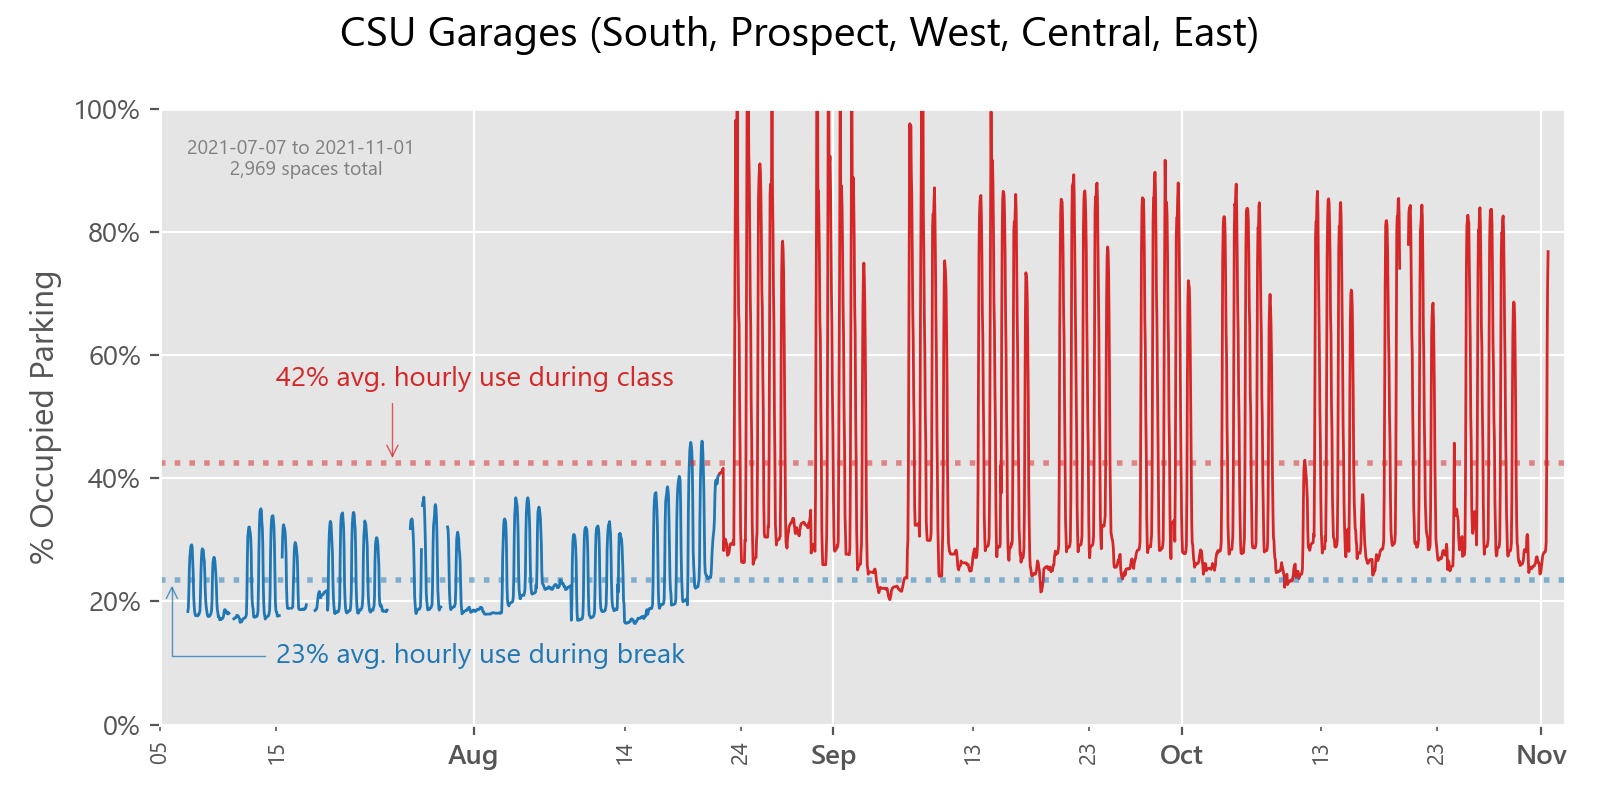
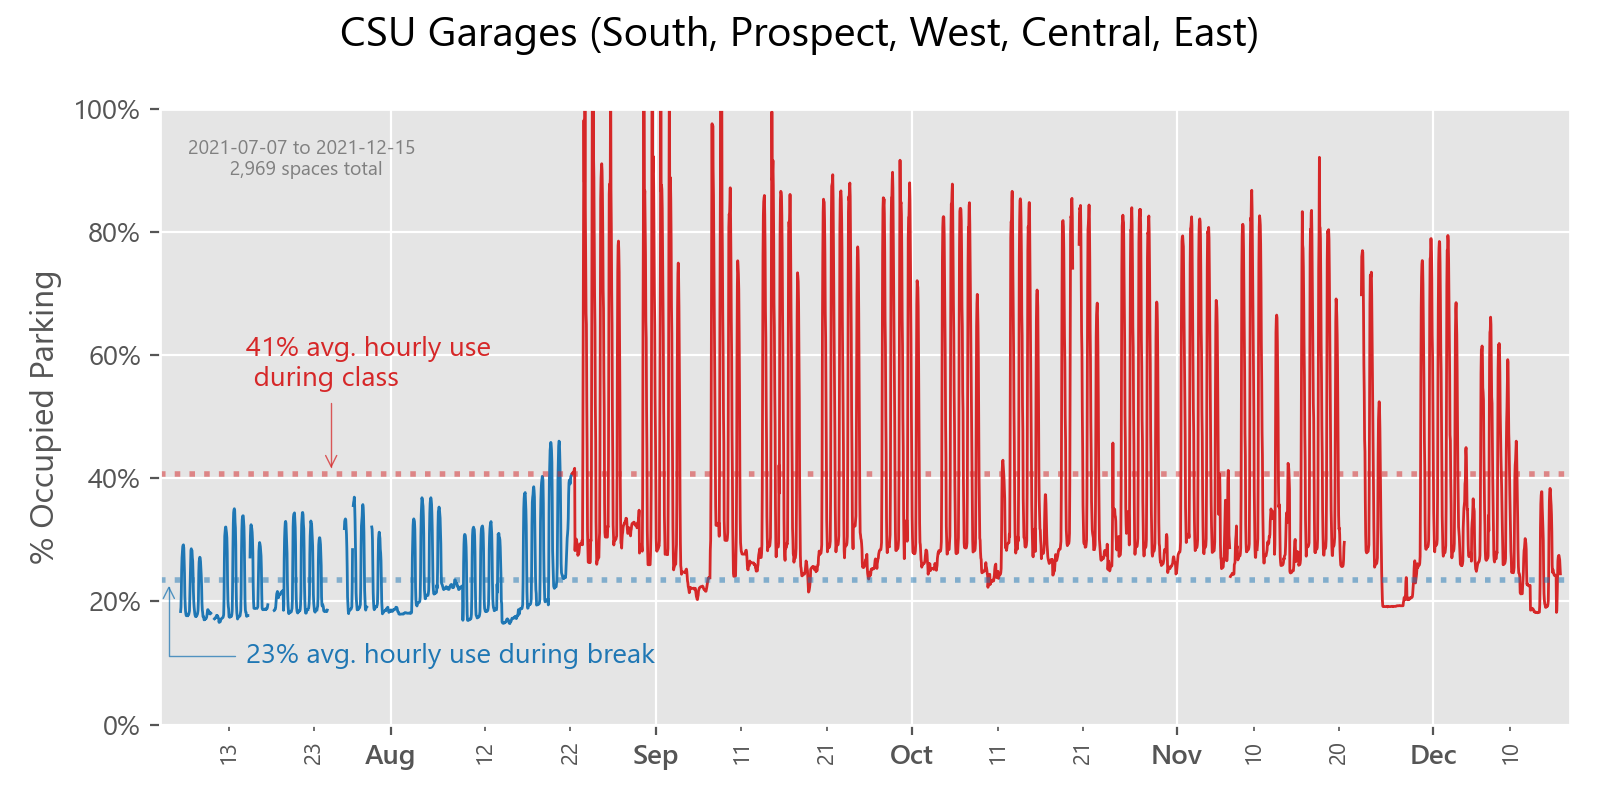
Update plots and datetime index issue in charts.py

diff --git a/charts.py b/charts.py
@@ -9,7 +9,9 @@ import numpy as np
 plt.style.use('ggplot')
 plt.interactive(False)
 mpl.rcParams['font.family'] = 'Segoe UI'
-df = pd.read_csv('CSU_parking_live.csv', index_col='date', parse_dates=True, infer_datetime_format=True)
+df = pd.read_csv('CSU_parking_live.csv', parse_dates=['date'], infer_datetime_format=True)
+df = df.set_index('date')
+df.index = pd.to_datetime(df.index, utc=True).tz_convert(tz='US/Eastern')
 cols = df.columns
 
 # plotter
@@ -67,7 +69,7 @@ plt.annotate(f'{average_use_break:.0%} avg. hourly use during break', xy=(date_m
                          'lw': '.5', 'alpha': 0.75})
 # school season line
 plt.axhline(average_use_school, ls=':', lw=2, c='tab:red', alpha=.5)
-plt.annotate(f'{average_use_school:.0%} avg. hourly use during class', xy=(date_min + 20, average_use_school),
+plt.annotate(f'{average_use_school:.0%} avg. hourly use \n during class', xy=(date_min + 20, average_use_school),
              xytext=(date_min + 10, .55), c='tab:red',
              arrowprops={'arrowstyle': '->', 'connectionstyle': "angle,angleA=180,angleB=90", 'color': 'tab:red',
                          'lw': '.5', 'alpha': 0.75})
